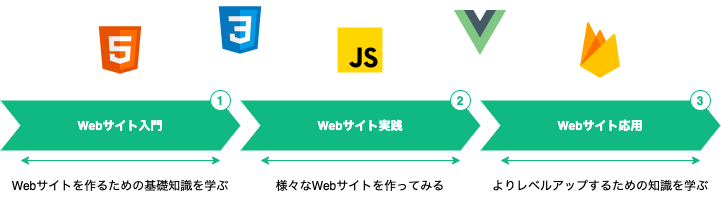
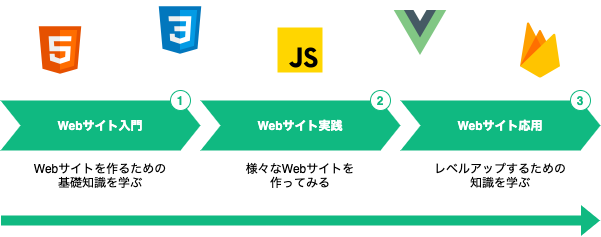
トップページ更新

diff --git a/pages/index.vue b/pages/index.vue
@@ -1,42 +1,107 @@
 <template>
-  <content-container
-    :doc="doc"
-    :prev="prev"
-    :next="next"
-    :show-surround="false"
-  />
+  <div class="flex flex-col">
+    <header>
+      <div class="container mx-auto px-4">
+        <div class="flex flex-row items-center gap-2 p-2">
+          <img class="h-8 w-8" src="/images/logo.png">
+          <h5>web-study.dev</h5>
+        </div>
+      </div>
+    </header>
+    <section class="py-32">
+      <div class="container mx-auto px-4">
+        <h5 class="text-2xl text-center font-bold leading-relaxed sm:text-5xl sm:leading-relaxed">
+          「Webサイトを作りたい」<br>
+          と思っているあなたへ
+        </h5>
+        <p class="py-4 text-center text-gray-500">
+          作って学ぶWebサイト制作<br>
+          <img class="h-4 w-4 inline-block" src="/images/logo.png"> web-study.dev
+        </p>
+        <div class="py-16 text-center">
+          <a href="/website/web-about" class="py-4 px-16 rounded text-white bg-green-500 hover:bg-green-700">
+            はじめる
+          </a>
+        </div>
+      </div>
+    </section>
+    <section class="py-16 bg-green-50">
+      <div class="container mx-auto px-4">
+        <h5 class="text-xl text-center font-bold leading-relaxed sm:text-3xl">
+          学びたいのは、作り方
+        </h5>
+        <p class="py-4 text-sm text-center text-gray-500">
+          このサイトでは、HTML・CSS・JavaScriptを使った、<br class="hidden sm:inline">
+          Webサイトの作り方を学べるコンテンツを公開しています。<br>
+          <br>
+          実際に手を動かしながらWebサイトを作り、学習を進めます。<br class="hidden sm:inline">
+          もう、HTML・CSS・JavaScriptのつまらない話はやめにしましょう。
+        </p>
+        <img src="/images/top/top-study.png" class="mx-auto py-4">
+      </div>
+    </section>
+    <section class="py-16">
+      <div class="container mx-auto px-4">
+        <h5 class="text-xl text-center font-bold leading-relaxed sm:text-3xl">
+          学び方で、悩まない
+        </h5>
+        <p class="py-4 text-sm text-center text-gray-500">
+          順番にページを読み進めるだけでOK。<br class="hidden sm:inline">
+          入門・実践・応用と、順番にステップアップしていきます。
+        </p>
+        <img src="/images/top/top-steps.png" class="mx-auto py-4">
+      </div>
+    </section>
+    <section class="py-16 bg-green-50">
+      <div class="container mx-auto px-4">
+        <h5 class="text-xl text-center font-bold leading-relaxed sm:text-3xl">
+          現役エンジニアが運営
+        </h5>
+        <p class="py-4 text-sm text-center text-gray-500">
+          現役エンジニアが個人で運営している、無料のWebサイトです。<br class="hidden sm:inline">
+          実際の開発経験に基づいた、Webサイト制作に必要な知識をまとめています。
+        </p>
+      </div>
+    </section>
+    <section class="py-16">
+      <div class="container mx-auto px-4">
+        <h5 class="text-xl text-center font-bold leading-relaxed sm:text-3xl">
+          作りたいから、作れるに
+        </h5>
+        <p class="py-4 text-sm text-center text-gray-500">
+          初心者でも独学で、挫折せずに学べること。<br class="hidden sm:inline">
+          そして、作りたいと思ったものが 「作れる」ようになること。<br>
+          <br>
+          Webサイトを作りたい人が、イメージを形にできるように、<br class="hidden sm:inline">
+          こんな思いをこの「作って学ぶWebサイト制作」に込めています。<br>
+          <br>
+          作り方を学びたい方、過去に挫折してしまった方、<br class="hidden sm:inline">
+          Webサイトを作りたい全ての方が対象です。
+        </p>
+      </div>
+    </section>
+    <section class="py-16 bg-green-50">
+      <div class="container mx-auto px-4">
+        <h5 class="text-xl text-center font-bold leading-relaxed sm:text-3xl">
+          さっそく始めよう
+        </h5>
+        <p class="py-4 text-sm text-center text-gray-500">
+          さぁ、Webサイト制作を始めてみましょう。
+        </p>
+        <div class="py-16 text-center">
+          <a href="/website/web-about" class="py-4 px-16 rounded text-white bg-green-500 hover:bg-green-700">
+            はじめる
+          </a>
+        </div>
+      </div>
+    </section>
+  </div>
 </template>
 
 <script lang="ts">
 import Vue from 'vue'
-import { getArticle } from '~/libs/content'
 
-interface Data {
-  doc: object,
-  prev?: object,
-  next?: object,
-  title: string,
-  description: {
-    hid: string,
-    name: string,
-    content: string
-  }
-}
-interface Methods {}
-interface Computed {}
-interface Props {}
-
-export default Vue.extend<Data, Methods, Computed, Props>({
-  async asyncData ({ $content }): Promise<Data> {
-    const { category, page } = { category: 'top', page: 'index' }
-    const article = await getArticle({ $content, category, page })
-    return { ...article }
-  },
-  head () {
-    return {
-      title: this.title,
-      meta: [this.description]
-    }
-  }
+export default Vue.extend({
+  layout: 'plain'
 })
 </script>

diff --git a/components/SideNav.vue b/components/SideNav.vue
@@ -3,7 +3,7 @@
     <div class="flex justify-between">
       <a href="/" class="w-full h-10 block px-4 hover:bg-gray-200 flex items-center">
         <img class="h-6 w-6 mr-2" src="/images/logo.png">
-        <span class="text-sm">flutter-study.dev</span>
+        <span class="text-sm">web-study.dev</span>
       </a>
       <div class="w-10 h-10 flex items-center justify-center sm:hidden" @click="toggleMenuOpen">
         <img class="h-6" src="https://img.icons8.com/material-outlined/24/000000/menu--v1.png">

diff --git a/layouts/plain.vue b/layouts/plain.vue
@@ -1,0 +1,8 @@
+<template>
+  <div class="text-gray-700">
+    <main>
+      <Nuxt />
+    </main>
+    <site-footer />
+  </div>
+</template>

diff --git a/content/master/grid-layout.md b/content/master/grid-layout.md
@@ -1,15 +1,15 @@
 ---
-title: 図で理解する CSS Grid
-description: 図で CSS Grid の全体像を理解しよう！
+title: 図で理解する Grid Layout
+description: 図で Grid Layout の全体像を理解しよう！
 slug: master-02
 ---
 
-## 図で理解するGrid
+## 図で理解する Grid Layout
 
-Gridは複雑なレイアウトを組み立てるために必要となる機能です。  
+Grid Layoutは複雑なレイアウトを組み立てるために必要となる機能です。  
 ですが、文章だけではGridの仕組みや使い方を理解しづらい部分があるのも事実です。
 
-そこで、Gridの仕組みや使い方を図で視覚的に説明します。  
+そこで、Grid Layoutの仕組みや使い方を図で視覚的に説明します。  
 Gridを使いこなして、様々なレイアウトを組み立てられるようになりましょう。
 
 

diff --git a/content/master/flexbox.md b/content/master/flexbox.md
@@ -1,6 +1,6 @@
 ---
-title: 図で理解する CSS Flexbox
-description: 図で CSS Flexbox の全体像を理解しよう！
+title: 図で理解する Flexbox
+description: 図で Flexbox の全体像を理解しよう！
 slug: master-01
 ---
 
